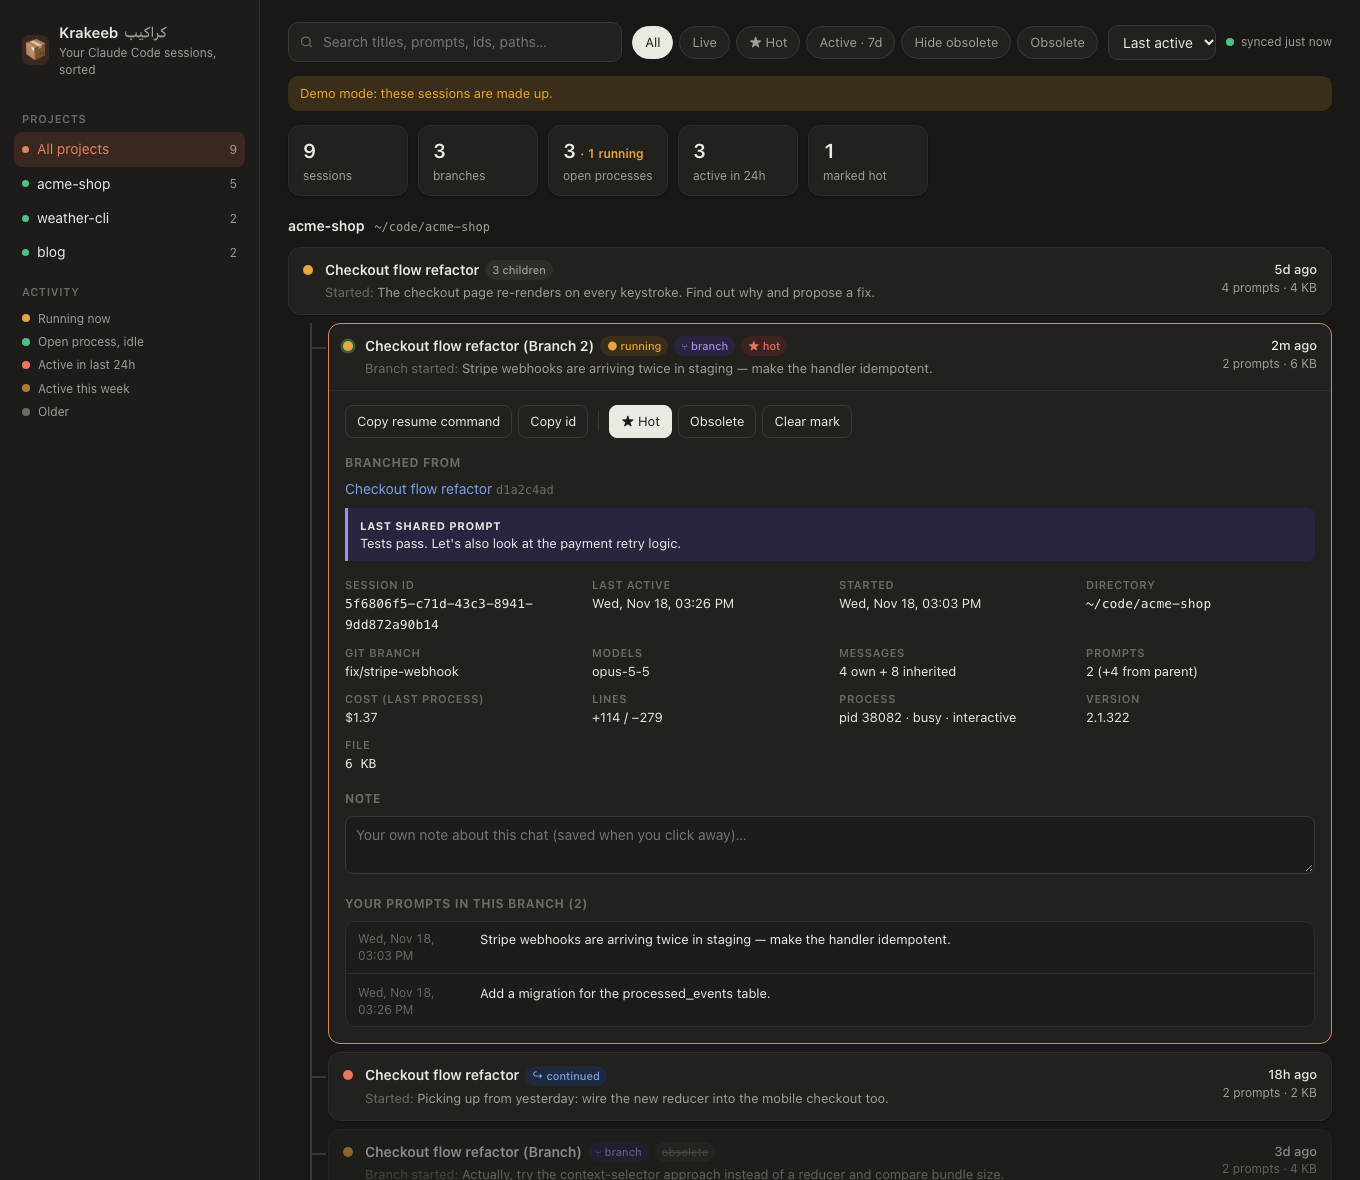
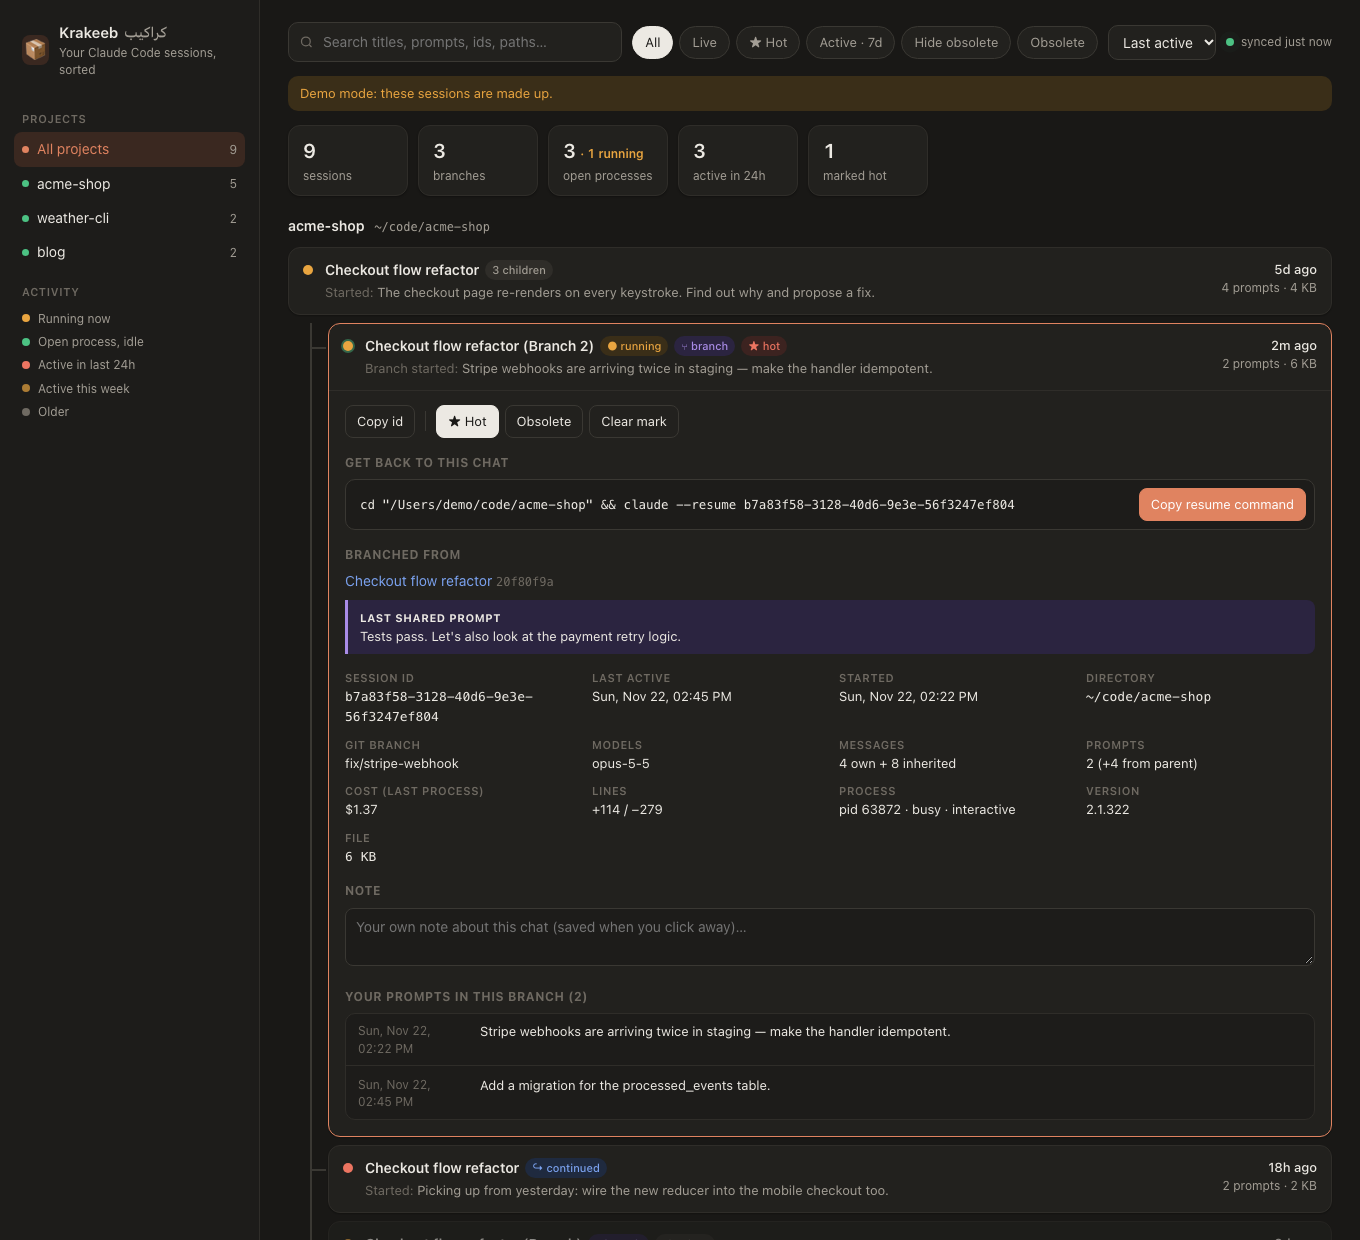
README highlights: active chats on top, one-click resume
Add a Highlights list at the top of the README. Show each chat's resume
command with a copy button in the expanded view, with a new screenshot.

diff --git a/index.html b/index.html
@@ -102,6 +102,9 @@ select{font:inherit;border:1px solid var(--line2);background:var(--panel);color:
 .btn.pri{background:var(--accent);border-color:var(--accent);color:#fff}
 .btn.pri:hover{filter:brightness(1.07);color:#fff}
 .btn.sel{background:var(--ink);color:var(--bg);border-color:var(--ink)}
+.resume{display:flex;align-items:center;gap:10px;background:var(--panel2);border:1px solid var(--line2);border-radius:10px;padding:8px 8px 8px 14px}
+.resume code{flex:1;min-width:0;font:12.5px var(--mono);overflow-x:auto;white-space:nowrap}
+.resume .btn{flex:none}
 .sep{width:1px;height:20px;background:var(--line2);margin:0 4px}
 .sec h4{margin:0 0 8px;font-size:12px;text-transform:uppercase;letter-spacing:.05em;color:var(--faint)}
 .quote{border-left:3px solid var(--violet);background:var(--violet-soft);padding:8px 12px;border-radius:0 8px 8px 0;font-size:13px;white-space:pre-wrap;word-break:break-word;max-height:140px;overflow:auto}
@@ -292,14 +295,15 @@ function detail(s,by){
   const pr=d?d.prompts:null;
   return`<div class="detail">
    <div class="actions">
-     ${DATA.platform==="darwin"&&!DATA.demo?`<button class="btn pri" data-act="term" data-id="${s.id}">Resume in Terminal</button>`:""}
-     <button class="btn" data-copy="${esc(resume)}">Copy resume command</button>
+     ${DATA.platform==="darwin"&&!DATA.demo?`<button class="btn" data-act="term" data-id="${s.id}">Resume in Terminal</button>`:""}
      <button class="btn" data-copy="${s.id}">Copy id</button>
      <span class="sep"></span>
      <button class="btn ${m.status==="hot"?"sel":""}" data-mark="hot" data-id="${s.id}">★ Hot</button>
      <button class="btn ${m.status==="obsolete"?"sel":""}" data-mark="obsolete" data-id="${s.id}">Obsolete</button>
      ${m.status?`<button class="btn" data-mark="" data-id="${s.id}">Clear mark</button>`:""}
    </div>
+   <div class="sec"><h4>Get back to this chat</h4>
+     <div class="resume"><code>${esc(resume)}</code><button class="btn pri" data-copy="${esc(resume)}">Copy resume command</button></div></div>
    ${par?`<div class="sec"><h4>${s.relation==="branch"?"Branched from":"Continued from"}</h4>
       <a href="#" data-jump="${par.id}">${esc(title(par))}</a> <span class="mono" style="color:var(--faint)">${par.id.slice(0,8)}</span>
       ${s.branched_after?`<div class="quote" style="margin-top:8px"><b style="font-size:11px;letter-spacing:.05em;text-transform:uppercase">Last shared prompt</b>\n${esc(clean(s.branched_after))}</div>`:""}</div>`:""}

diff --git a/README.md b/README.md
@@ -2,6 +2,17 @@
 
 **A local page for browsing all your Claude Code sessions as a tree, so you can see what's still running and sort out the clutter.**
 
+## Highlights
+
+- **🔝 What's active is always on top.** Chats are ranked by their most recent activity, including activity in any branch below them. When a branch or sub-session gets busy, it pulls its whole family and its project to the top of the page. A newly started session lands at the top too. The page refreshes every 8 seconds, so the chats that need your attention are always the first thing you see.
+- **↩ Get back to any chat in one click.** Every chat shows its ready-to-run resume command, already pointing at the right folder. Click **Copy resume command** and paste it into a terminal. No more hunting for session ids. On macOS, **Resume in Terminal** opens it for you.
+
+  ![Resume command for a chat](docs/screenshot-resume.png)
+
+- **🌳 Branches and continuations as a tree.** Every fork sits under the chat it came from, with the last prompt they share, so you can tell branches apart at a glance.
+- **🧹 Sort the clutter.** Mark chats ★ Hot or Obsolete, add your own notes, and filter by them.
+- **🔒 Local and read-only.** No LLM calls, nothing loaded from the internet, and nothing in `~/.claude` is changed.
+
 > *karakeeb* (كراكيب) is Arabic for the clutter that piles up in the corner of the house: old stuff someone will sort out one day. Every Arab parent has said "لمّوا الكراكيب دي" ("gather up this clutter"). After a few weeks of branching, resuming and backgrounding Claude Code chats, your sessions look a lot like that.
 
 ![Krakeeb overview](docs/screenshot.png)
@@ -16,7 +27,7 @@ Claude Code saves every session in `~/.claude/projects`. Krakeeb reads those fil
 - **How each chat started.** For a branch, that's the first prompt after the split, plus the last prompt it shares with its parent.
 - **Everything else already on disk:** every prompt you typed, git branch, models, cost, lines changed, subagents and published artifacts.
 - **Sorting the clutter:** mark chats ★ Hot or Obsolete, add notes, filter and search. Obsolete chats are dimmed.
-- **Resuming:** copy the `claude --resume` command, or on macOS open it straight in Terminal.
+- **Resuming:** every chat shows its `claude --resume` command with a copy button, or on macOS open it straight in Terminal.
 
 ![Expanded branch](docs/screenshot-detail.png)
 
